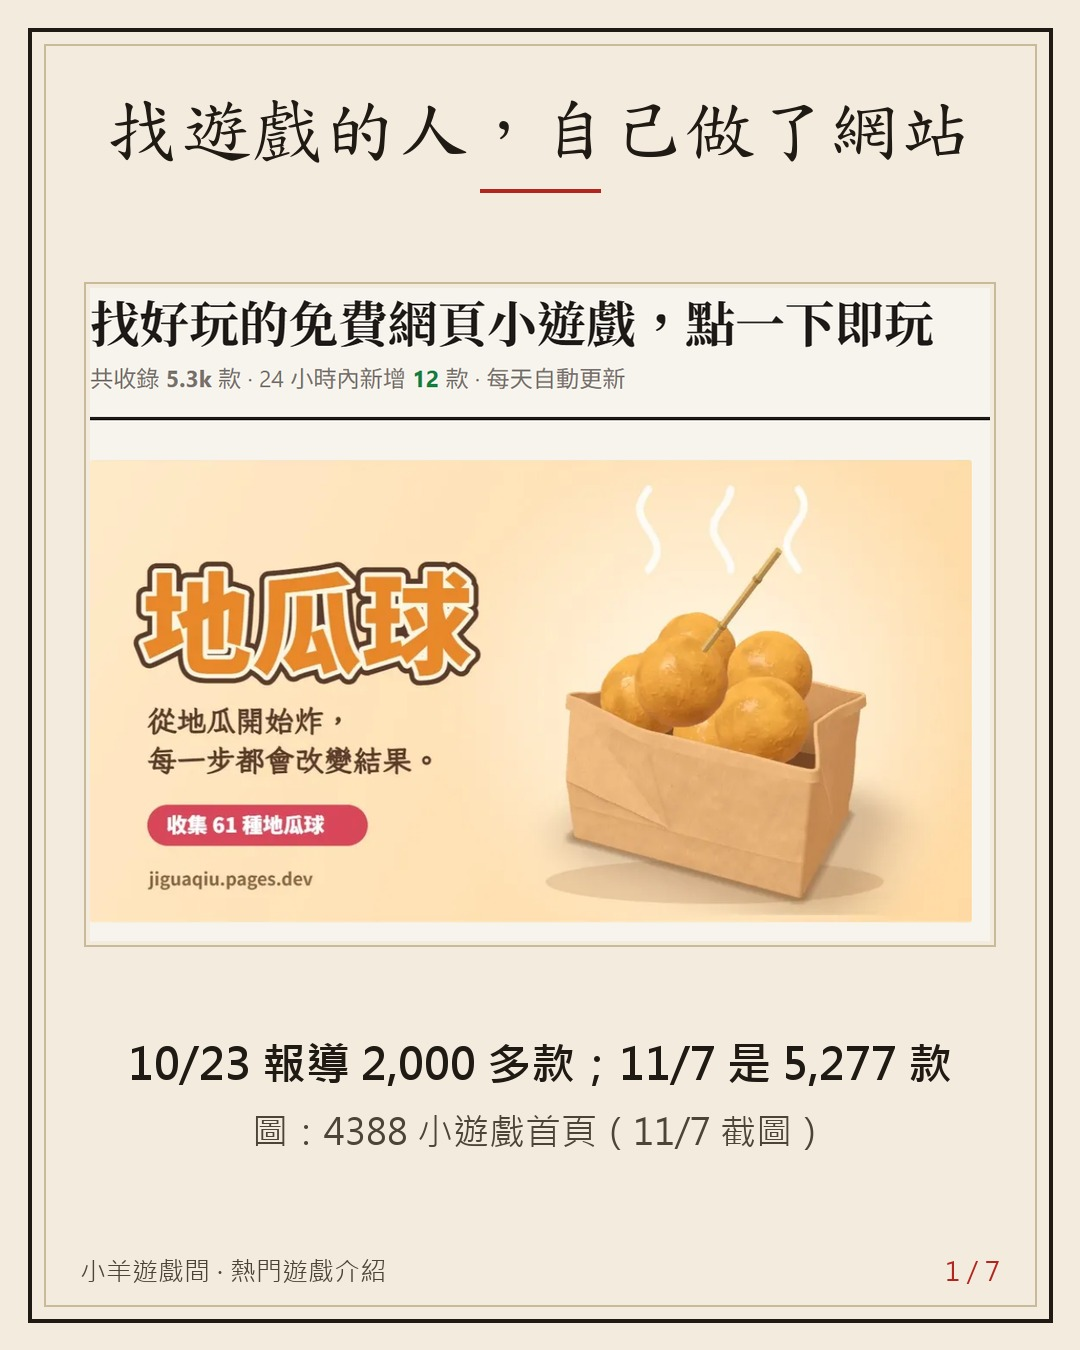
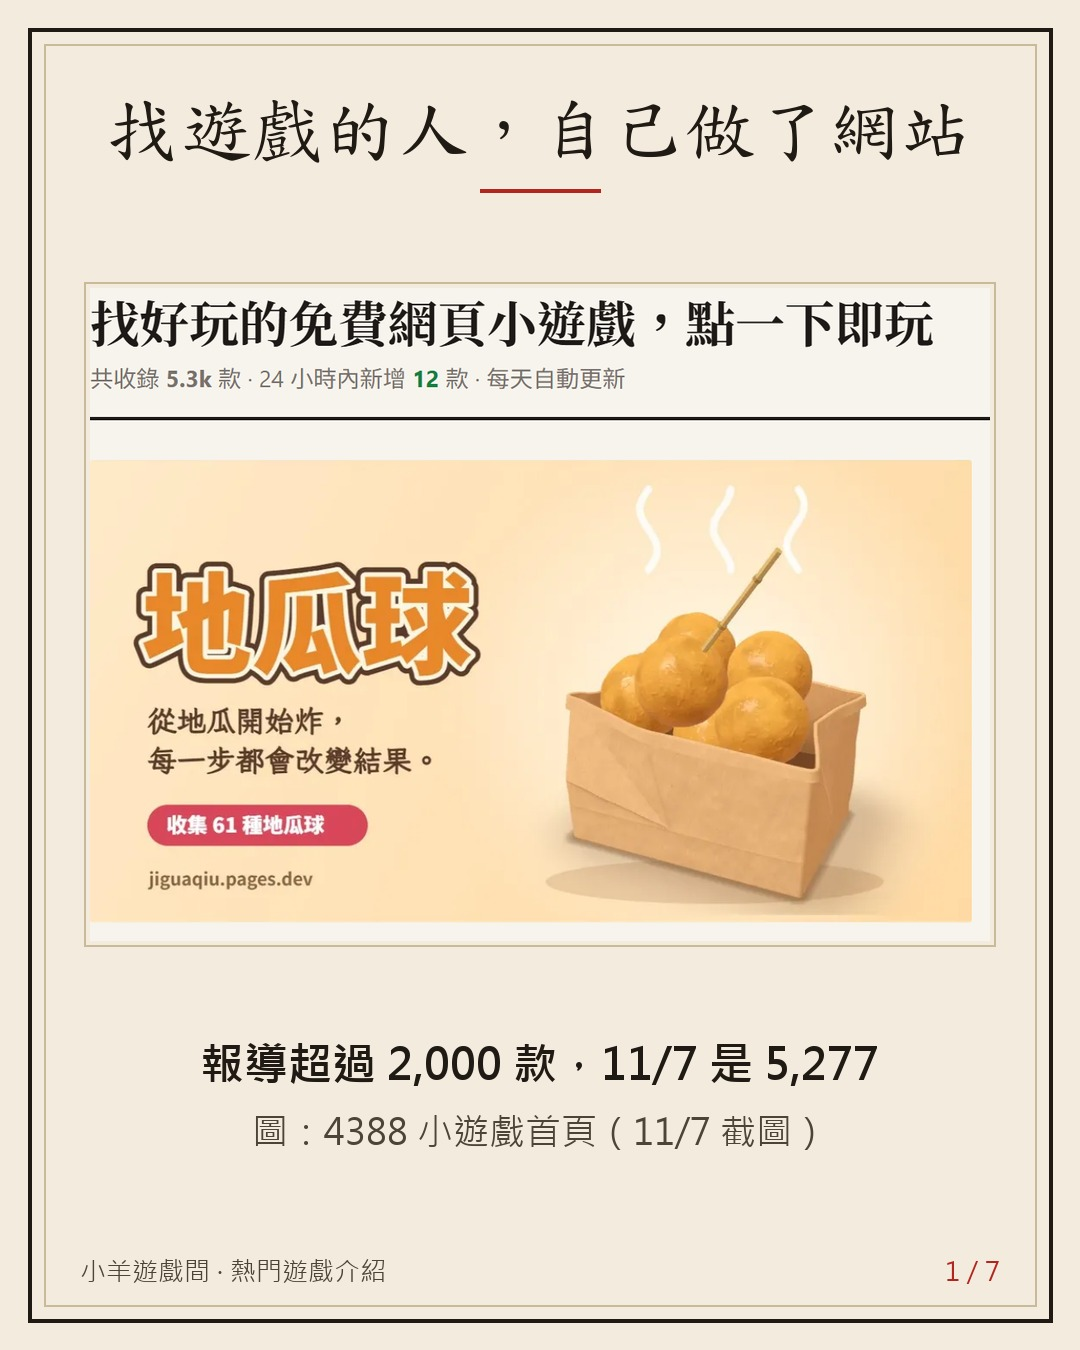
vault backup: 2026-11-07 07:15:37

Changed region(s): [[0.4278, 0.7778, 0.8861, 0.8089], [0.1222, 0.7467, 0.3972, 0.8089]]

diff --git a/Projects/auto promotion/posts/48.md b/Projects/auto promotion/posts/48.md
@@ -2,21 +2,20 @@
 id: 48
 type: popular
 game: 4388 小遊戲（4388.fun，網頁小遊戲目錄）
-topic: "4388 小遊戲：Threads 上有人天天問「有什麼好玩的網頁小遊戲」，香港網友 myttt.invest 乾脆做了一個目錄站（Yahoo 10/23 報導時 2,000 多款，11/7 頁面 5,277 款）；網友封它「現代史萊姆好玩遊戲區」，站長說沒這麼大野心；11/7 實測榜單：近 7 日第 1 炸地瓜球 13k、前 10 只有洗地毯不是食物，累計第 8 塗鴉過山車 19k 但近 7 日沒進前 10；小羊想寫塗鴉過山車、找不到作者（候選來源太薄改寫這篇）"
-status: 草稿
+topic: "4388 小遊戲：Threads 上有人常有人問「有什麼好玩的網頁小遊戲」，香港網友 myttt.invest 乾脆做了一個目錄站（Yahoo 10/23 報導時 超過 2,000 款，11/7 頁面 5,277 款）；網友封它「現代史萊姆好玩遊戲區」，站長說沒這麼大野心；11/7 實測榜單：近 7 日第 1 炸地瓜球 13k、前 10 只有洗地毯不是食物，累計第 8 塗鴉過山車 19k 但近 7 日沒進前 10；小羊想寫塗鴉過山車、找不到作者（候選來源太薄改寫這篇）"
+status: 待發
 created: 2026-11-07 23:40
-score: 0
+score: 8.1
 ---
 # 找遊戲的人，自己做了一個網站
 
 ## Threads
 ### 1
-兩週內，一個網站從 2,000 多款長到 5,277 款。
-起因只是 Threads 上一直有人問：「有沒有好玩的網頁小遊戲？」
+一個網站，Yahoo 10/23 報導時 超過 2,000 款，15 天後我去看，5,277 款。
+起因只是 Threads 上常有人問：「有沒有好玩的網頁小遊戲？」
 
-留言幾百則，滑過去就找不到。
-香港網友（Threads 帳號 myttt.invest）乾脆自己做了一個網站，把它們收在一起。
-10/23 Yahoo 報導時 2,000 多款；我 11/7 去看，頁面寫 5,277 款 👇
+留言幾百則，滑過去不好找回來。
+香港網友（Threads 帳號 myttt.invest）乾脆自己做了一個網站，把它們收在一起 👇
 ![[48/01.jpg]]
 ### 2
 這個網站叫「4388 小遊戲」，名字是向老站 4399 致敬（Yahoo 的說法）。
@@ -26,12 +25,12 @@ score: 0
 評分（百分比＋票數）、留言、排行榜，才是 4388 自己的。
 
 不用下載，也不用註冊。
-我覺得這個設計很乾淨：它不搶遊戲，只負責「讓你找得到」。
+它不搶遊戲，只負責「讓你找得到」。
 ![[48/02.jpg]]
 ### 3
 網友說它像「現代史萊姆好玩遊戲區」。
 
-史萊姆是 1997 年成立的遊戲站，智慧型手機和 App Store 之前，很多台灣學生都在上面玩。
+史萊姆是 1997 年成立的老遊戲站。
 
 站長的回應我很喜歡：
 「沒這麼大野心，只想集合大家的品味，方便自己找好遊戲而已」
@@ -39,11 +38,11 @@ score: 0
 ![[48/03.jpg]]
 ### 4
 數字我自己看了一下：
-・10/23 報導：2,000 多款
+・10/23 報導：超過 2,000 款
 ・11/7 頁面：5,277 款
 ・首頁寫「24 小時內新增 12 款，每天自動更新」
-・20 個分類、6 種語言介面
-・關於頁寫營運者是香港的個體戶（Yahoo 報導也只用帳號名稱）
+・19 個分類（Yahoo）、6 種語言介面
+・關於頁寫營運者是香港獨資經營者（Yahoo 報導也只用帳號名稱）
 
 收錄的方式，頁面只寫「每天自動更新」，我沒有再查，有錯請指正 :p
 ![[48/04.jpg]]
@@ -55,12 +54,10 @@ score: 0
 
 前 10 名我數了一遍，只有「洗地毯」不是吃的。
 
-兩個小提醒：
-1. 這是「點擊數」，不是玩家數（NOWnews 也這樣提醒）。
-2. 評分要連票數一起看：鍋氣炒飯 91%（703 票）、蛋包飯模擬器 67%（317 票）。
+提醒：這是「點擊數」，不是玩家數（NOWnews 也這樣提醒）。
 ![[48/05.jpg]]
 ### 6
-還有一個榜：累計。
+榜單還有一個：累計。
 
 11/7 我本來想寫另一款：《塗鴉過山車》（畫一條線，變成第一人稱坐的雲霄飛車）。
 港媒的 Threads 爆紅清單有它，但遊戲頁沒寫作者，我也搜不到，所以這篇沒寫它。
@@ -72,28 +69,29 @@ score: 0
 所以它大概是上一波紅的。誰做的？榜單不會告訴你 orz
 ![[48/06.jpg]]
 ### 7
-看完榜單，我的結論：
-目錄能告訴你「什麼紅」，不一定告訴你「誰做的」。
-看榜三步：先看是點擊還是玩家，再看票數，最後找作者的網站。
-
+我的看榜三步：
+1. 先看是點擊還是玩家：4388 是點擊。
+2. 再看票數：鍋氣炒飯 91%（703 票）、蛋包飯模擬器 67%（317 票），同樣是紅，被喜歡的程度差很多。
+3. 最後找作者的網站。目錄能告訴你「什麼紅」，不一定告訴你「誰做的」。
+### 8
 我也在做一個這樣的網站：小羊遊戲間。
-上千款，分 16 類，每款都連到作者自己的網站。
+分 16 類，每款都連到作者自己的網站。
 方向和 4388 很像，做法不同：用滑的，不喜歡就滑下一款。
 
-你都怎麼找小遊戲？Threads 留言、朋友丟連結，還是看榜單？留言告訴我～
+你最近一次找到的好玩小遊戲是哪款？留言丟給我，我拿去試～
 下一篇：《塗鴉過山車》的作者我還在找，找到就寫，追蹤不迷路。
 ![[48/07.jpg]]
 ### 連結
 更多點了就玩的網頁小遊戲，都在小羊遊戲間 👉 https://games.csiesheep.com/
 
 ## Instagram
-兩週內，一個網站從 2,000 多款長到 5,277 款。起因是 Threads 上一直有人問「有沒有好玩的網頁小遊戲」，留言幾百則、滑過就找不到，香港網友 myttt.invest 乾脆做了「4388 小遊戲」（10/23 報導 2,000 多款；我 11/7 看頁面 5,277 款）。
+Yahoo 10/23 報導時 超過 2,000 款，15 天後我去看是 5,277 款：香港網友 myttt.invest 做的「4388 小遊戲」。起因只是 Threads 上常有人問「有沒有好玩的網頁小遊戲」，留言幾百則、滑過就不好找回來。
 
 它只放連結，點「開始玩」跳到作者自己的網站；評分、留言、排行榜在它這邊。網友封它「現代史萊姆好玩遊戲區」，站長說沒這麼大野心。
 
-小提醒：排行榜是點擊數，不是玩家數；評分要連票數看（蛋包飯 67%／317 票）。《塗鴉過山車》累計第 8（19k），近 7 日卻沒進前 10；作者是誰，榜單不會說。看榜三步：先看點擊還是玩家，再看票數，最後找作者。
+看榜三步：先看是點擊還是玩家，再看票數（鍋氣炒飯 91%／703 票，蛋包飯 67%／317 票），最後找作者。《塗鴉過山車》累計第 8（19k），近 7 日卻沒進前 10；作者是誰，榜單不會說。
 
-你都怎麼找小遊戲？留言告訴我 👇
+你最近一次找到的好玩小遊戲是哪款？留言告訴我 👇
 
 連結在主頁
 #小羊遊戲間 #網頁遊戲推薦 #4388小遊戲 #網頁小遊戲
@@ -103,30 +101,34 @@ score: 0
 ## Facebook
 🎮 找遊戲的人，自己做了一個網站
 
-兩週內，一個網站從 2,000 多款長到 5,277 款。起因只是 Threads 上一直有人問「有沒有好玩的網頁小遊戲」，底下留言幾百則，滑過去就找不到。香港網友（Threads 帳號 myttt.invest）乾脆自己做了一個網站，把它們收在一起，叫「4388 小遊戲」，名字向老站 4399 致敬（Yahoo 的說法）。10/23 Yahoo 報導時 2,000 多款；我 11/7 去看，頁面寫 5,277 款。
+一個網站，Yahoo 10/23 報導時 超過 2,000 款，15 天後我去看，5,277 款。起因只是 Threads 上常有人問「有沒有好玩的網頁小遊戲」，底下留言幾百則，滑過去不好找回來。香港網友（Threads 帳號 myttt.invest）乾脆自己做了一個網站，把它們收在一起，叫「4388 小遊戲」，名字向老站 4399 致敬（Yahoo 的說法）。
 
 🔗 它怎麼運作
-點「開始玩」會跳到作者自己的網站，4388 只放連結，遊戲還在作者那邊。評分（百分比＋票數）、留言、排行榜，才是 4388 自己的。不用下載、不用註冊。我覺得這個設計很乾淨：它不搶遊戲，只負責「讓你找得到」。
+點「開始玩」會跳到作者自己的網站，4388 只放連結，遊戲還在作者那邊。評分（百分比＋票數）、留言、排行榜，才是 4388 自己的。不用下載、不用註冊。它不搶遊戲，只負責「讓你找得到」。
 
 🕹 「現代史萊姆」
-網友說它像「史萊姆好玩遊戲區」——1997 年成立、智慧型手機之前很多台灣學生都在上面玩的遊戲站。站長的回應：「沒這麼大野心，只想集合大家的品味，方便自己找好遊戲而已」（Yahoo 10/23 報導）。
+網友說它像「史萊姆好玩遊戲區」——1997 年成立的老遊戲站。站長的回應：「沒這麼大野心，只想集合大家的品味，方便自己找好遊戲而已」（Yahoo 10/23 報導）。
 
 📊 11/7 我看到的數字
 ・5,277 款；首頁寫「24 小時內新增 12 款，每天自動更新」
-・20 個分類、6 種語言介面
-・關於頁寫營運者是香港的個體戶（Yahoo 報導也只用帳號名稱）
+・19 個分類（Yahoo）、6 種語言介面
+・關於頁寫營運者是香港獨資經營者（Yahoo 報導也只用帳號名稱）
 ・收錄的方式，頁面只寫「每天自動更新」，我沒有再查，有錯請指正 :p
 
 🏆 榜單怎麼看
-「近 7 日」點擊榜：1 炸地瓜球 13k、2 鍋氣炒飯 13k、3 霉豆腐 10k；前 10 名我數了一遍，只有「洗地毯」不是吃的。兩個提醒：這是點擊數、不是玩家數；評分要連票數一起看（鍋氣炒飯 91%／703 票，蛋包飯模擬器 67%／317 票）。
+「近 7 日」點擊榜：1 炸地瓜球 13k、2 鍋氣炒飯 13k、3 霉豆腐 10k；前 10 名我數了一遍，只有「洗地毯」不是吃的。注意這是點擊數、不是玩家數。
 
 🎢 一個小插曲
 11/7 我本來想寫《塗鴉過山車》（畫一條線，變成第一人稱坐的雲霄飛車）。港媒的 Threads 爆紅清單有它，但遊戲頁沒寫作者，我也搜不到，所以這篇沒寫它。它的數字反而是在 4388 找到的：累計 19k 點擊、第 8 名，近 7 日卻沒進前 10（第 10 名是 5.0k），大概是上一波紅的。誰做的？榜單不會告訴你 orz
 
-💡 我的結論
-目錄能告訴你「什麼紅」，不一定告訴你「誰做的」，看榜三步：先看是點擊還是玩家，再看票數，最後找作者的網站。我也在做一個這樣的網站——小羊遊戲間：上千款、分 16 類、每款都連到作者自己的網站，用滑的，不喜歡就滑下一款。
+💡 我的看榜三步
+1. 先看是點擊還是玩家
+2. 再看票數：鍋氣炒飯 91%（703 票）、蛋包飯模擬器 67%（317 票），同樣是紅，被喜歡的程度差很多
+3. 最後找作者的網站——目錄能告訴你「什麼紅」，不一定告訴你「誰做的」
 
-你都怎麼找小遊戲？Threads 留言、朋友丟連結，還是看榜單？留言告訴我～下一篇：《塗鴉過山車》的作者我還在找，找到就寫。
+我也在做一個這樣的網站——小羊遊戲間：分 16 類、每款都連到作者自己的網站，用滑的，不喜歡就滑下一款。
+
+你最近一次找到的好玩小遊戲是哪款？留言丟給我，我拿去試～下一篇：《塗鴉過山車》的作者我還在找，找到就寫。有錯請指正 :p
 
 👉 更多點了就玩的網頁小遊戲，都在小羊遊戲間：https://games.csiesheep.com/
 
@@ -135,8 +137,8 @@ score: 0
 相簿：同 Instagram 卡片
 
 ## Sources
-- https://tw.news.yahoo.com/%E8%84%86%E4%B8%8A%E7%88%86%E7%B4%85%E7%9A%84%E5%85%8D%E8%B2%BB%E5%B0%8F%E9%81%8A%E6%88%B2%E4%B8%8D%E7%94%A8%E5%86%8D%E6%89%BE%E4%BA%86%EF%BC%81%E9%80%99%E7%B6%B2%E7%AB%99%E4%B8%80%E6%AC%A1%E6%95%B4%E7%90%86-%E8%A2%AB%E5%B0%81%E7%8F%BE%E4%BB%A3%E7%89%88%E3%80%8C%E5%8F%B2%E8%90%8A%E5%A7%86%E5%A5%BD%E7%8E%A9%E9%81%8A%E6%88%B2%E5%8D%80%E3%80%8D-090359150.html — Yahoo 新聞（Yahoo 遊戲編輯 Anjohn，2026-10-23）：myttt.invest（香港）、名字致敬 4399、2,000 多款、19 類、功能、站長引言、史萊姆 1997
-- https://4388.fun/ — 2026-11-07 台灣時間晚上實測：共收錄 5.3k 款、24 小時內新增 12 款、每天自動更新、近 7 日／累計點擊榜、20 類；關於頁 5,277 款、6 種語言、香港個體戶、只放連結、版權屬作者
+- https://tw.news.yahoo.com/%E8%84%86%E4%B8%8A%E7%88%86%E7%B4%85%E7%9A%84%E5%85%8D%E8%B2%BB%E5%B0%8F%E9%81%8A%E6%88%B2%E4%B8%8D%E7%94%A8%E5%86%8D%E6%89%BE%E4%BA%86%EF%BC%81%E9%80%99%E7%B6%B2%E7%AB%99%E4%B8%80%E6%AC%A1%E6%95%B4%E7%90%86-%E8%A2%AB%E5%B0%81%E7%8F%BE%E4%BB%A3%E7%89%88%E3%80%8C%E5%8F%B2%E8%90%8A%E5%A7%86%E5%A5%BD%E7%8E%A9%E9%81%8A%E6%88%B2%E5%8D%80%E3%80%8D-090359150.html — Yahoo 新聞（Yahoo 遊戲編輯 Anjohn，2026-10-23）：myttt.invest（香港）、名字致敬 4399、超過 2,000 款、19 類、功能、站長引言、史萊姆 1997
+- https://4388.fun/ — 2026-11-07 台灣時間晚上實測：共收錄 5.3k 款、24 小時內新增 12 款、每天自動更新、近 7 日／累計點擊榜、19 類（Yahoo）；關於頁 5,277 款、6 種語言、香港個體戶、只放連結、版權屬作者
 - https://4388.fun/g/2470 、/g/3458 等 — 鍋氣炒飯 91%（703 票）、蛋包飯模擬器 67%（317 票）：首頁熱門列表（2026-11-07）
 - https://www.nownews.com/news/6889407 — 4388 榜單是點擊數、不是玩家數（2026-11-04）
 - https://www.weekendhk.com/%E7%8E%A9%E6%A8%82%E7%86%B1%E8%A9%B1/threads-%E7%B6%B2%E9%A0%81%E5%B0%8F%E9%81%8A%E6%88%B2-3527303/ 、https://www.stheadline.com/ohpama/3629174 — 港媒 Threads 爆紅清單列有《塗鴉過山車》（rakugaki-coaster.pages.dev），不附作者；遊戲頁面本身也沒有作者資料（2026-11-07 查）
@@ -146,5 +148,8 @@ score: 0
 ## 打磨紀錄
 | 回合 | 1 | 2 | 3 | 4 | 5 | 6 | 7 | 8 | 9 | 10 | 平均 | 主要修改 |
 |---|---|---|---|---|---|---|---|---|---|---|---|---|
+| 1 | 7 | 9 | 8 | 7 | 8 | 7 | 8 | 8 | 8 | 8 | 7.8 | 未達標：改開頭數字鉤子、修「上線就收」口徑、補看榜三步、拿掉暗示站長不透明的句子、IG hashtag、卡片 1/2 截圖放大 |
+| 2 | 8 | 9 | 7 | 8 | 8 | 7 | 8 | 8 | 8 | 9 | 8.0 | 勉強達標但事實要修：20→19 類、個體戶→獨資經營者、刪史萊姆「智慧型手機之前」推論、兩週→15 天、Threads 7 拆成 7／8、三步法用鍋氣炒飯 vs 蛋包飯示範、商業段不與 5,277 比數量 |
+| 3 | 8 | 9 | 7 | 8 | 8 | 8 | 8 | 8 | 8 | 9 | 8.1 | 達標；「2,000 多款」改「超過 2,000 款」（Yahoo 寫超過）、「滑過就找不到」改「不好找回來」；其餘建議（小羊親手試、第 3 步做法）因不能編造經歷未採用 |
 
 ## 發文紀錄

diff --git a/Projects/auto promotion/posts/topics.md b/Projects/auto promotion/posts/topics.md
@@ -26,6 +26,7 @@
 | 19 | 《剝茶葉蛋》（tea-egg.pages.dev，作者 YURI @yuri_zyt） | 清單用完後自選（2026-11-05 晚 producer）：Threads 網頁小遊戲潮的「超商櫃檯小遊戲」，NOWnews 11/4 列 4388 近 7 日點擊第 8；4388 頁面 11k 次遊玩、81% 好玩；Canvas 全部程序生成；小羊遊戲間已收錄（id 5108） | [遊戲](https://tea-egg.pages.dev/)、[NOWnews](https://www.nownews.com/news/6889407)、[4388](https://4388.fun/g/5108)（沒有來源說是 AI 做的，貼文不寫 AI；候補：同榜的《螺旋薯塔製造機》、香港《市長大人》mayor.off-office.co） | #43 |
 | 20 | 《螺旋薯塔製造機》（ぐるぐるポテトメーカー，x282665.com/games/long-potato/，日本作者トドネロ） | 清單用完後自選（2026-11-06 早 producer）：NOWnews 11/4 列 4388 近 7 日點擊第 4（約 8,100 次）；4388 頁面 34,357 次遊玩、88% 好玩；長度＝深度＋圈數×3.3、薄於 0.1 cm 就斷，程式實切最長 323.4 cm；小羊遊戲間已收錄（id 856）。《市長大人》查過：沒有媒體報導、4388 只有 1,482 次，太薄不選 | [遊戲](https://x282665.com/games/long-potato/)、[NOWnews](https://www.nownews.com/news/6889407)、[4388](https://4388.fun/g/856)（只有日文；沒有來源說是 AI 做的，貼文不寫 AI；候補：同榜第 2《夜市牛排》但和 #39 同作者） | #45 |
 | 21 | 《夜市牛排》（sherrygamestudio.com/steak/，雪莉小遊戲 @sherry.game.maker） | 清單用完後自選（2026-11-06 晚 producer）：NOWnews 11/4 列 4388 近 7 日點擊第 2（約 8,900 次）、41 種結局；4388 頁面 25,600 次遊玩、87% 好玩；同作者的鍋氣炒飯是 #39，這篇主打三色豆扣分與結局；小羊遊戲間已收錄（id 3458）。洗地毯、乾杯！居酒屋查過：沒有媒體報導，先不選 | [遊戲](https://sherrygamestudio.com/steak/)、[NOWnews](https://www.nownews.com/news/6889407)、[4388](https://4388.fun/g/3458) | #46 |
+| 22 | 《4388 小遊戲》（4388.fun，香港 myttt.invest 做的網頁小遊戲目錄） | 清單用完後自選（2026-11-07 晚 producer）：塗鴉過山車來源仍薄（遊戲頁沒作者、搜尋找不到，4388 累計第 8 / 19k），改寫這個目錄站；Yahoo 10/23 報導時超過 2,000 款，11/7 頁面 5,277 款、近 7 日前 10 九款食物；呼應小羊遊戲間 | [4388.fun](https://4388.fun/)、[Yahoo](https://tw.news.yahoo.com/%E8%84%86%E4%B8%8A%E7%88%86%E7%B4%85%E7%9A%84%E5%85%8D%E8%B2%BB%E5%B0%8F%E9%81%8A%E6%88%B2%E4%B8%8D%E7%94%A8%E5%86%8D%E6%89%BE%E4%BA%86%EF%BC%81%E9%80%99%E7%B6%B2%E7%AB%99%E4%B8%80%E6%AC%A1%E6%95%B4%E7%90%86-%E8%A2%AB%E5%B0%81%E7%8F%BE%E4%BB%A3%E7%89%88%E3%80%8C%E5%8F%B2%E8%90%8A%E5%A7%86%E5%A5%BD%E7%8E%A9%E9%81%8A%E6%88%B2%E5%8D%80%E3%80%8D-090359150.html)（站長只有 Threads 帳號 myttt.invest；塗鴉過山車作者仍未找到，仍列候選） | #48 |
 
 不選：AI 反編譯、移植的商業遊戲網頁版（Halo、GTA Vice City 等，有著作權問題）；《傳說對決》（小羊不要）。
 

diff --git a/Projects/auto promotion/2026-11-07.md b/Projects/auto promotion/2026-11-07.md
@@ -208,3 +208,7 @@
 | 23:08 | promo-producer | 進度 | #48 草稿寫好（Threads 7 則＋IG＋FB），送第 1 輪審稿 |  |
 | 23:08 | hub-new-games-post | 發文 | Instagram：3 張輪播，帳號 csiesheep.games，AI 標籤關 | https://www.instagram.com/csiesheep.games/p/Dfcd-Xxm4QG/ |
 | 23:10 | hub-new-games-post | 發文 | Facebook 粉專 小羊遊戲間：3 張圖，所有人，AI 標籤關，23:12 發佈 |  |
+| 23:11 | promo-producer | 進度 | #48 第 1 輪平均 7.8、第 2 輪 8.0（事實修正：19 類、獨資經營者、15 天），第 3 輪送審 |  |
+| 23:12 | promo-producer | 完成 | #48 4388 小遊戲 待發 8.1（3 輪：7.8→8.0→8.1），卡片 posts/48/contact.jpg |  |
+| 23:13 | promo-producer | 完成 | 熱門貼文 #48《4388 小遊戲》待發（8.1，posts/48.md）；貼文 熱門3／日記2，卡2、Reel2、鬼唱詩待發8 |  |
+| 23:14 | hub-new-games-post | 發文 | Reel · Facebook：Page 小羊遊戲間 Reel 已送出（處理中，連結待查），AI 標籤關 |  |
